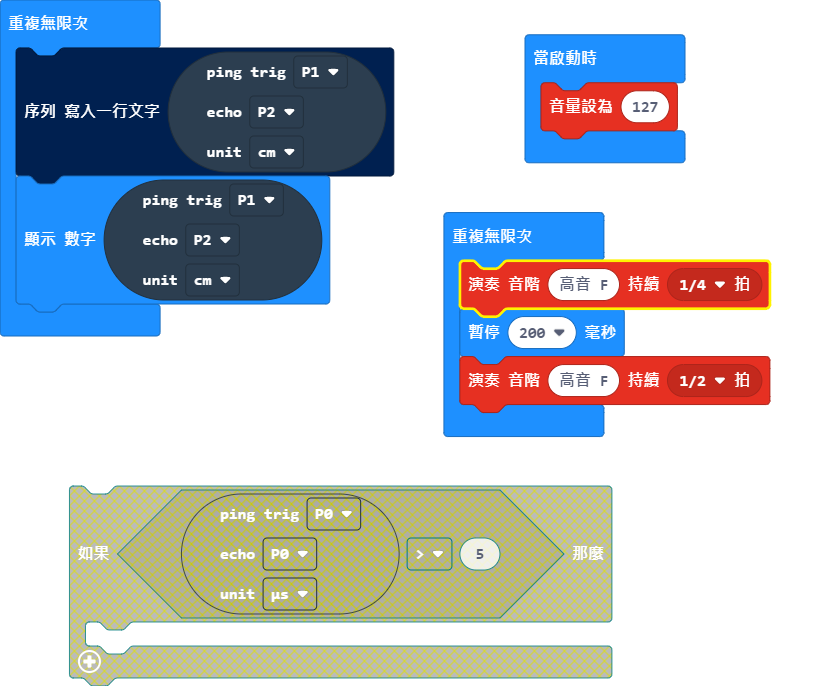
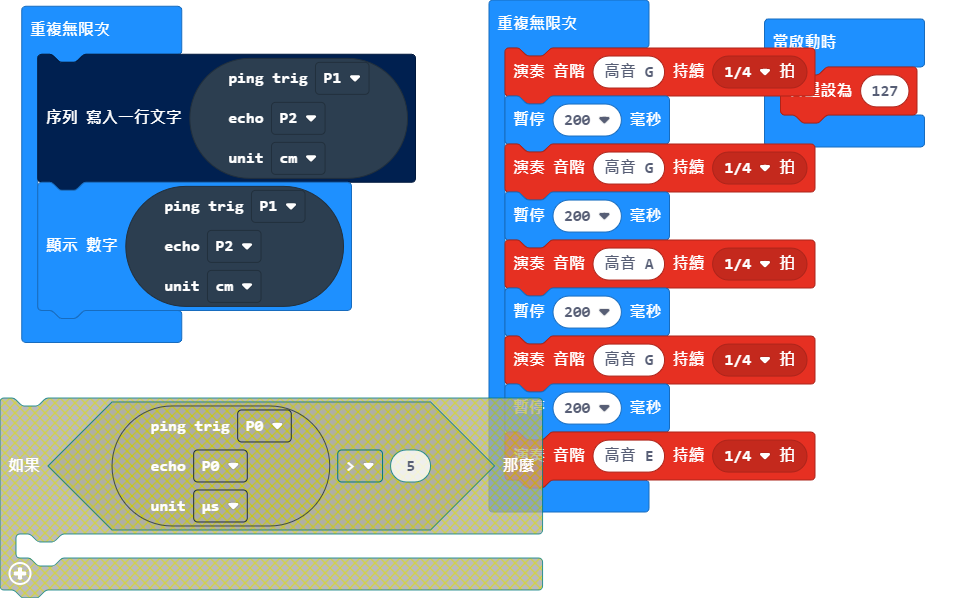
更新 main.blocks, main.ts

diff --git a/main.ts b/main.ts
@@ -12,7 +12,13 @@ basic.forever(function () {
     ))
 })
 basic.forever(function () {
-    music.playTone(698, music.beat(BeatFraction.Quarter))
+    music.playTone(784, music.beat(BeatFraction.Quarter))
     basic.pause(200)
-    music.playTone(698, music.beat(BeatFraction.Half))
+    music.playTone(784, music.beat(BeatFraction.Quarter))
+    basic.pause(200)
+    music.playTone(880, music.beat(BeatFraction.Quarter))
+    basic.pause(200)
+    music.playTone(784, music.beat(BeatFraction.Quarter))
+    basic.pause(200)
+    music.playTone(659, music.beat(BeatFraction.Quarter))
 })
